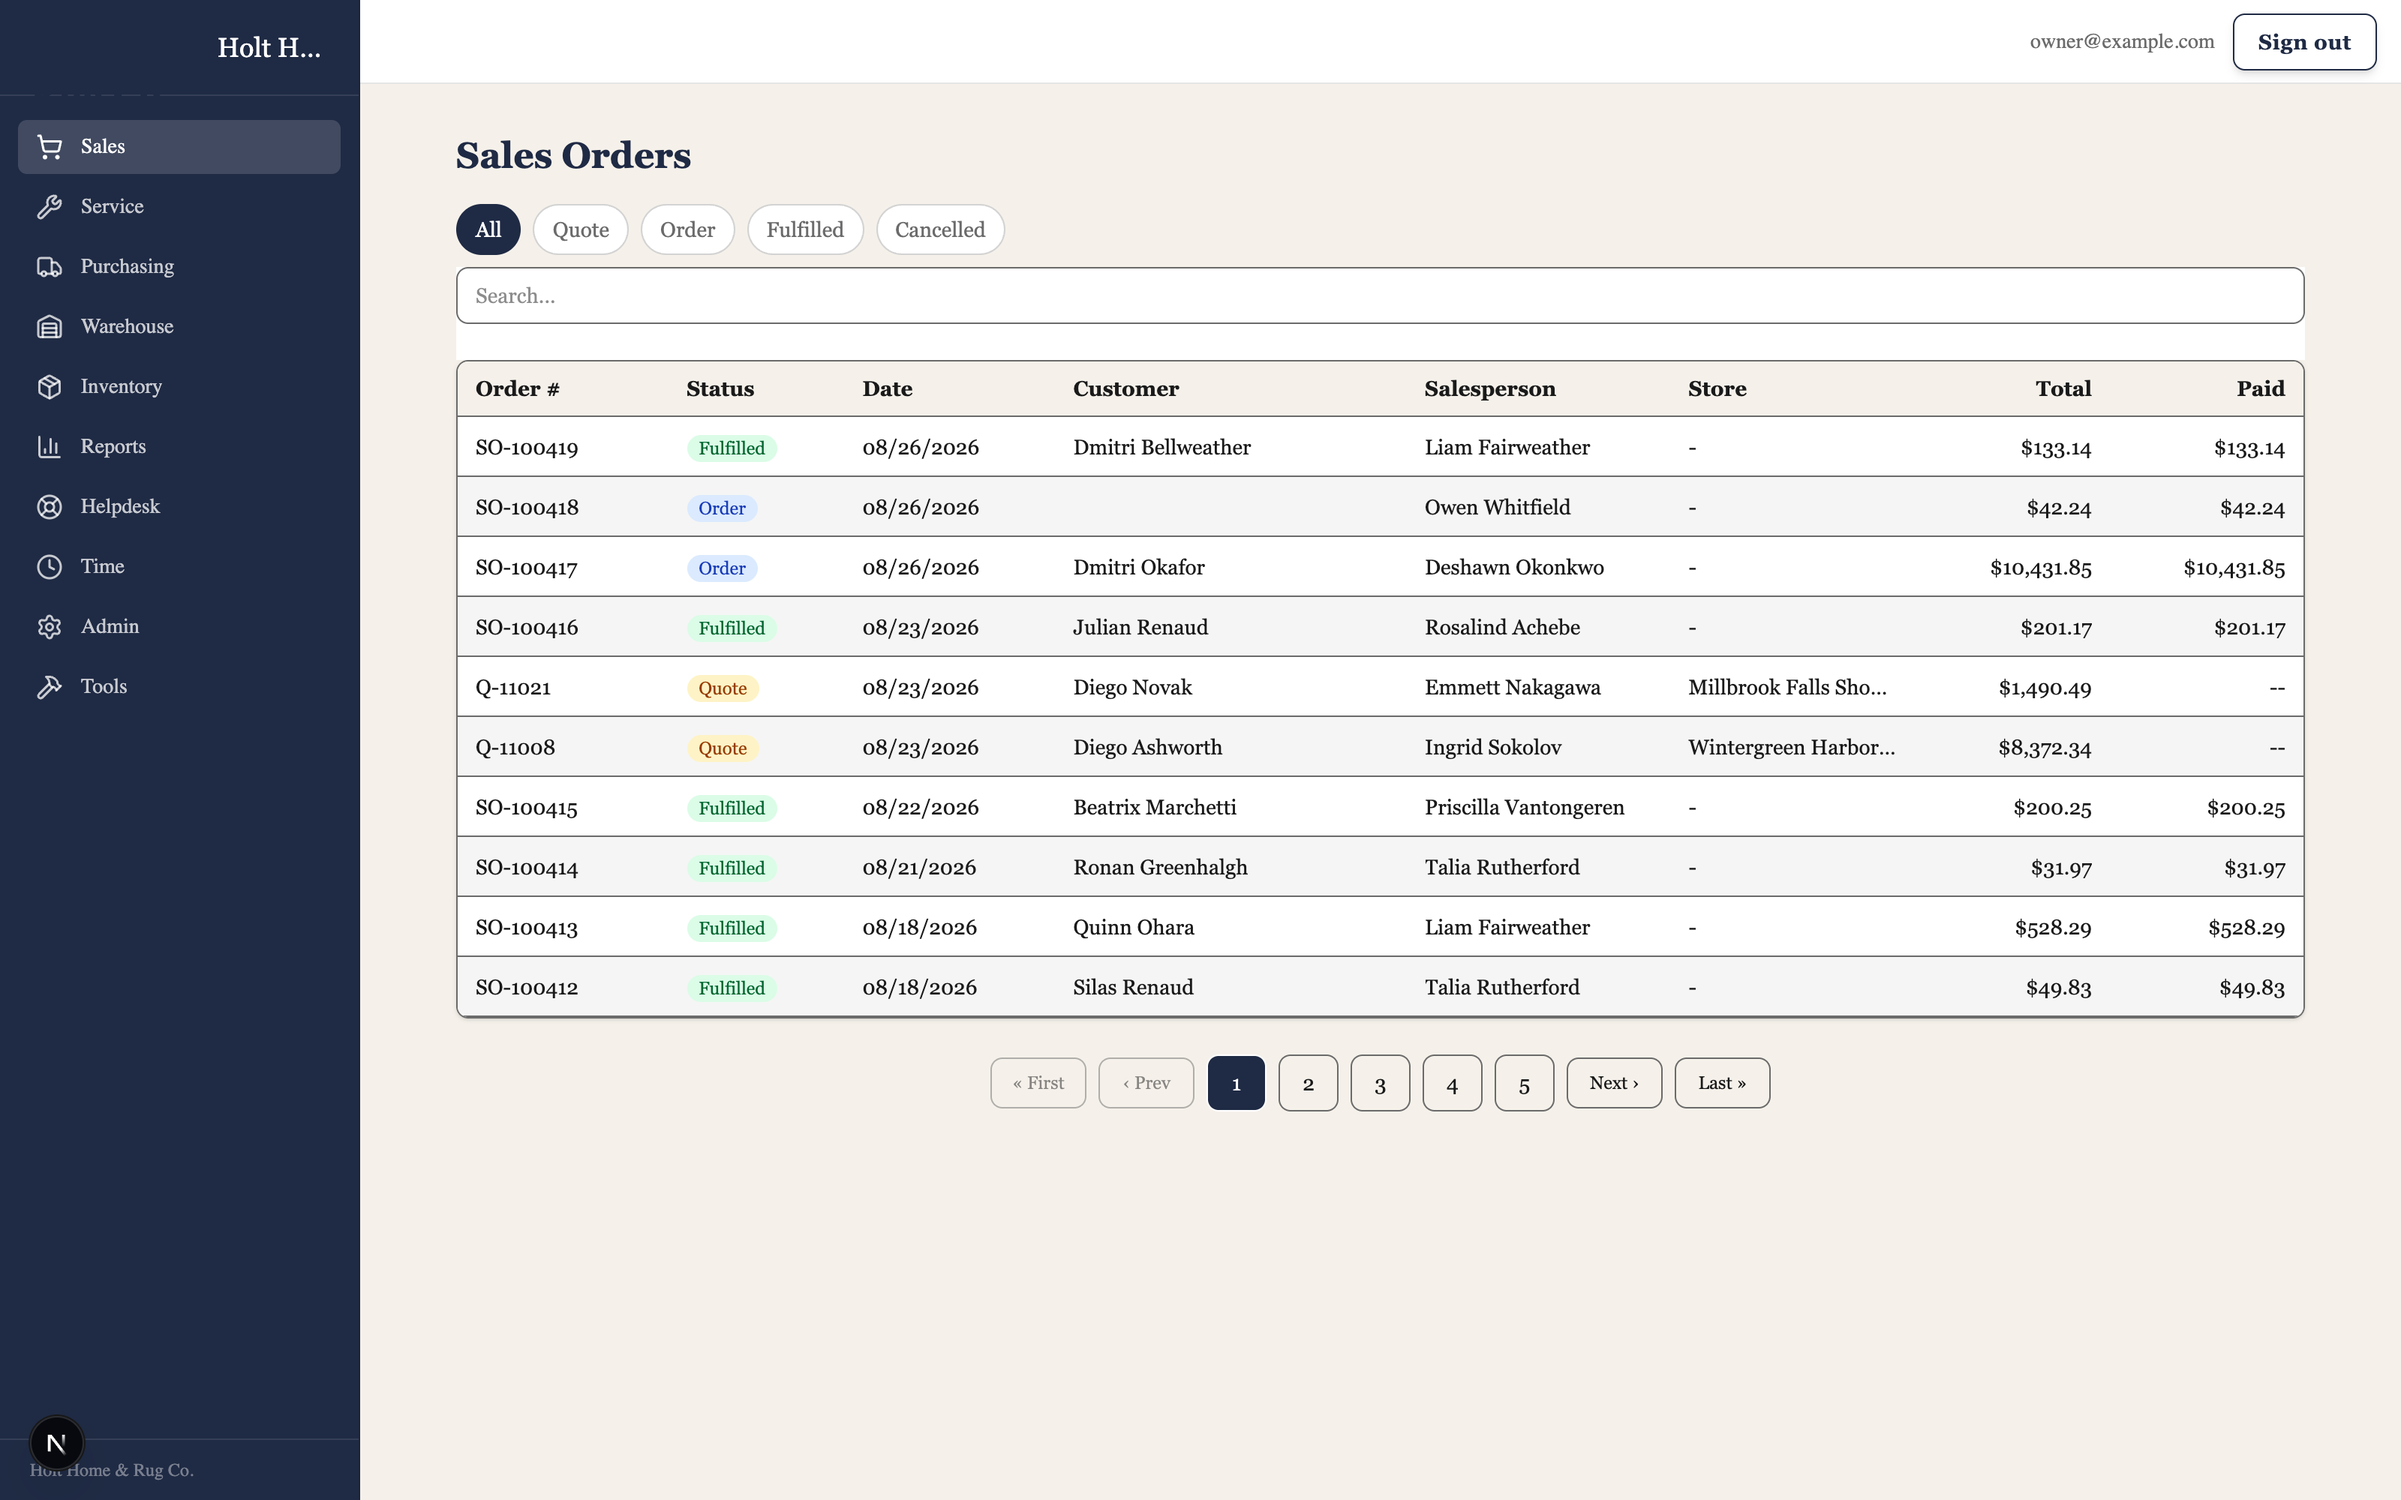
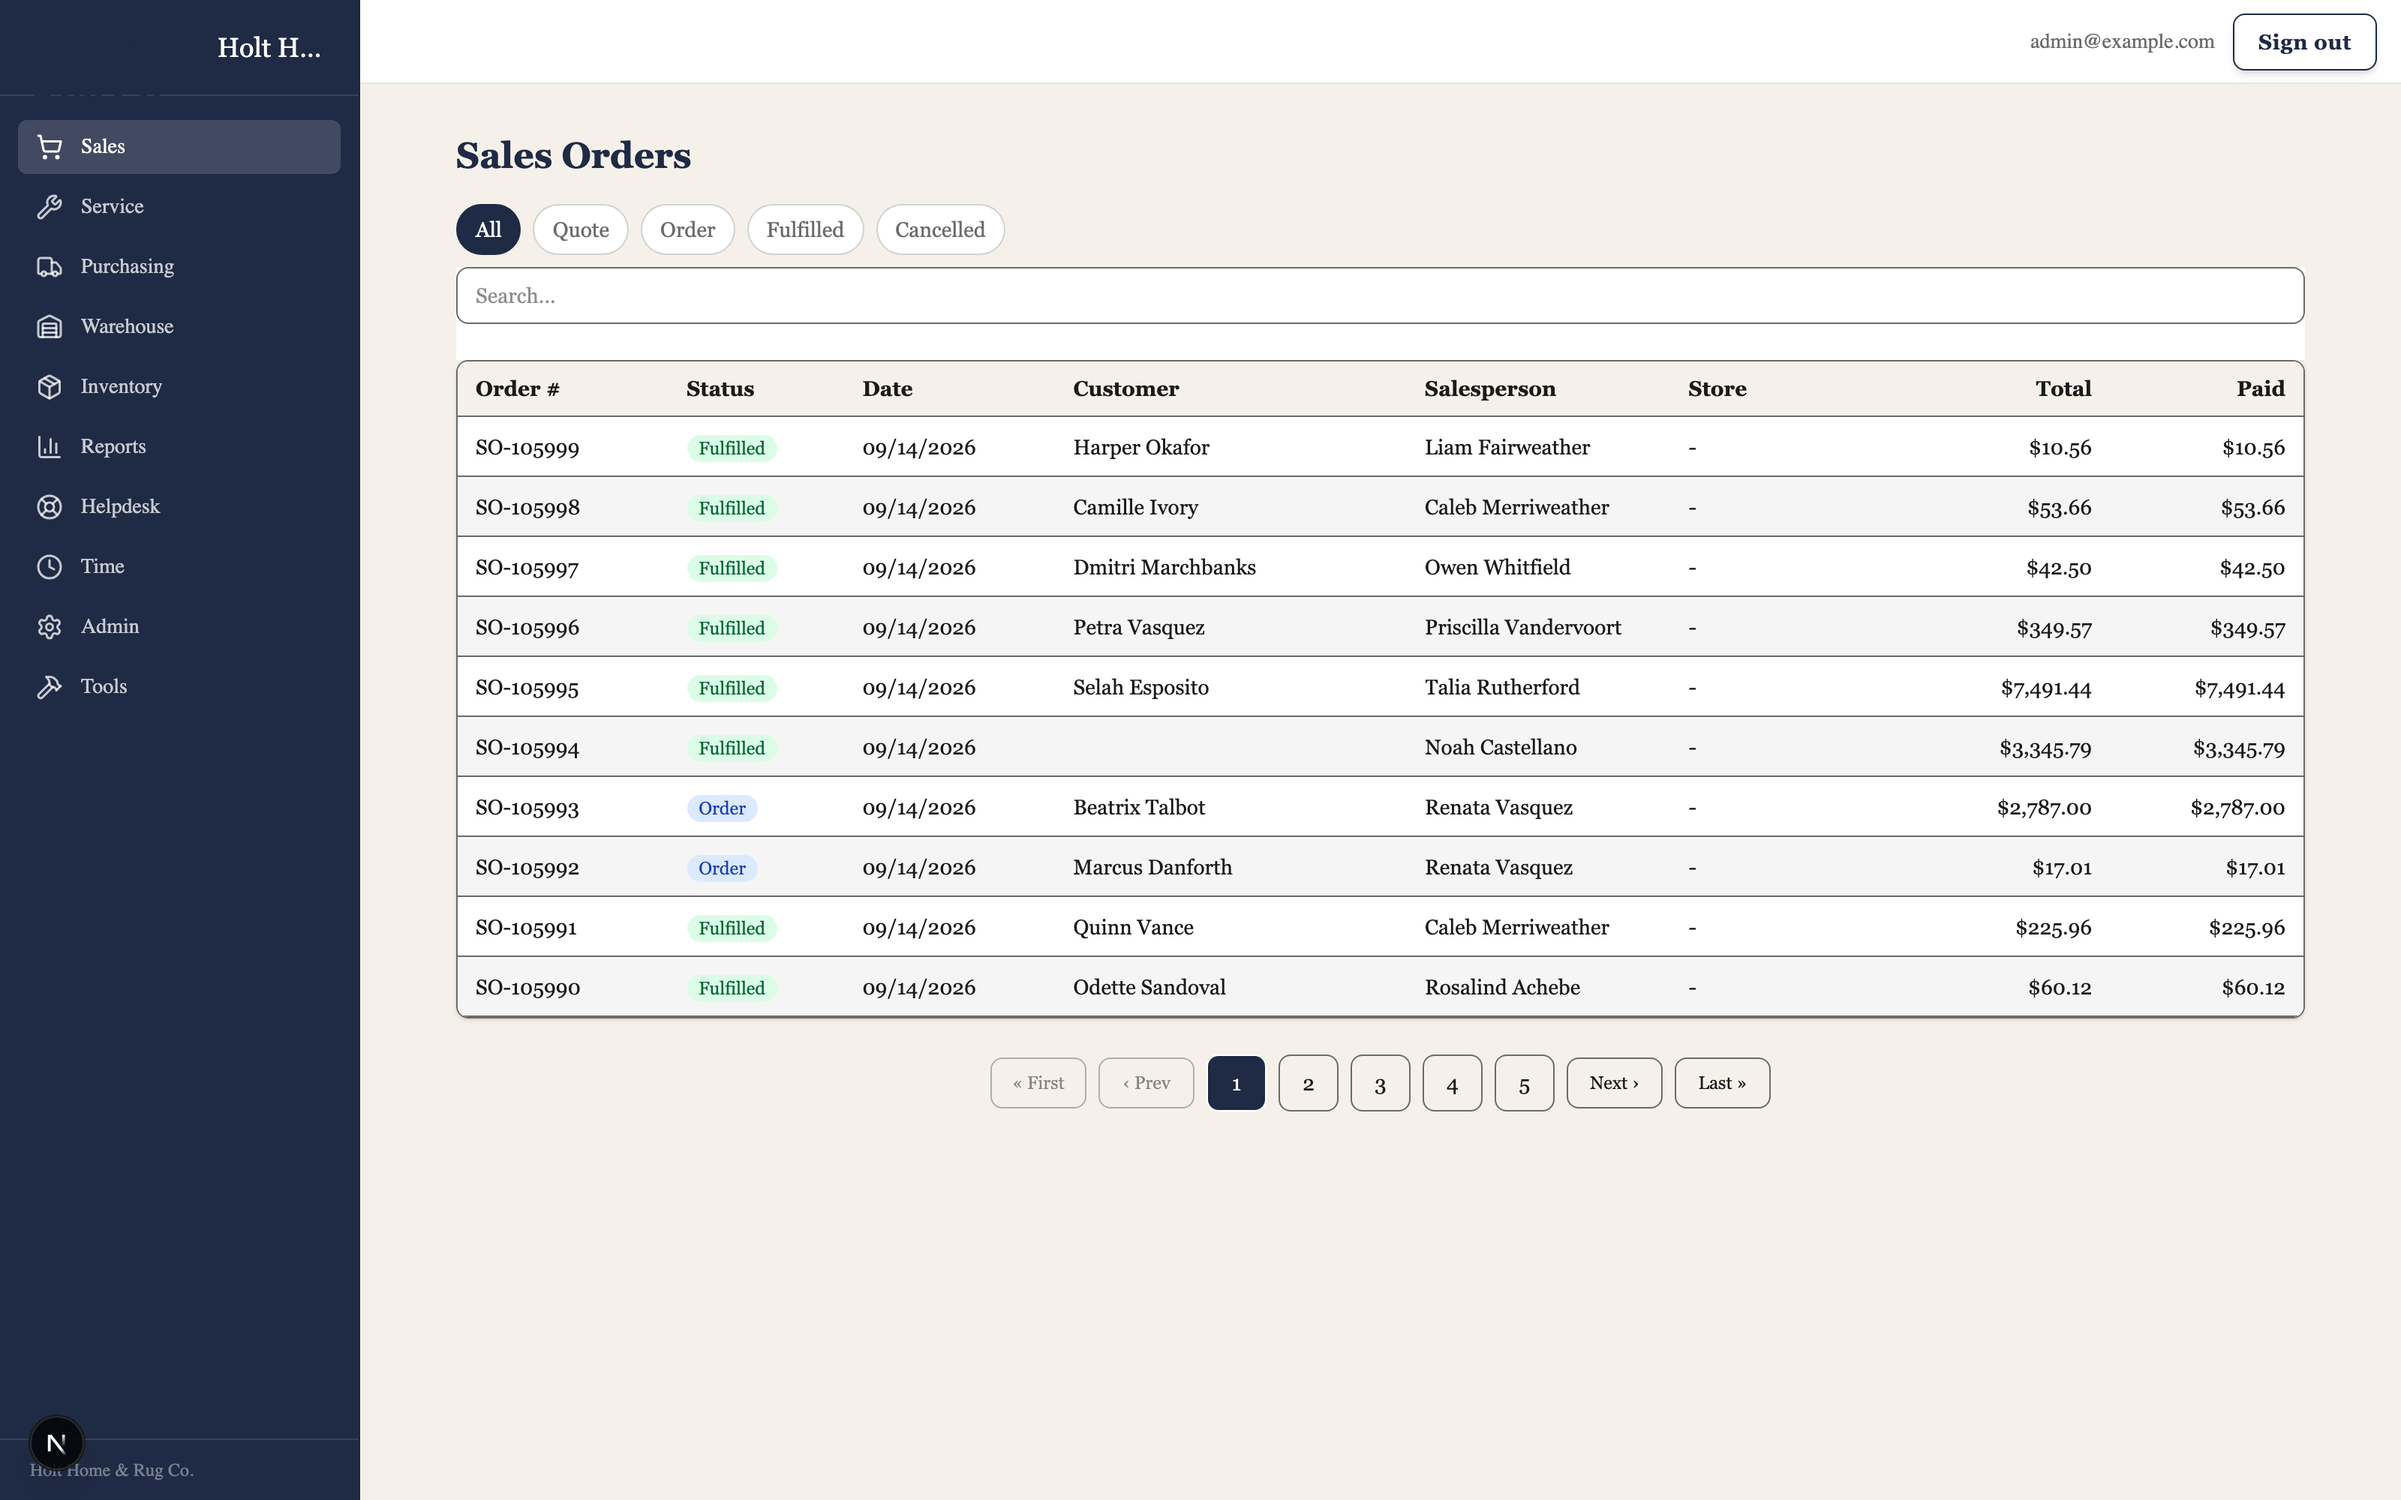
docs: the sales-orders screenshot showed a real surname; recaptured from the current seed (#163)
docs/images/sales-orders.png (#153) rendered a salesperson whose surname is
on the client-data tripwire's forbidden list. The scrub (#144) had already
renamed that seed row; the screenshot was captured from a database seeded
BEFORE the scrub and never re-seeded. The tripwire reads bytes, so a name
rendered into a PNG is a blind spot it cannot see -- it passed, and was
right to, and the image was wrong anyway.

All three screenshots are recaptured from holt_demo re-seeded at HEAD, at
the same 1600x1000 @2x. The capture script also dumps each page's rendered
text, and the tripwire's ten decoded patterns were run against that text:
zero hits. The one row that changed reads "Priscilla Vandervoort" now.

README's seed counts were wrong too: `npm run setup` at default scale
produces 6,000 orders / 1,400 customers / 500 products, not 454/180/160
(those are near the CI scale). And the caption promised a store on every
row; the store column is blank on counter sales, so it now says what the
image shows.

The old PNG remains in git history, as does everything #144 scrubbed. That
is a separate decision (rewrite or disclose) and is raised with the owner.

diff --git a/README.md b/README.md
@@ -29,7 +29,7 @@ wired to its own systems without editing code.
 ## What it looks like
 
 The screenshots below are a live instance running the demo seed (`npm run setup`)
-— 454 orders, 180 customers, 160 products, two showrooms. No mockups.
+— 6,000 orders, 1,400 customers, 500 products, two showrooms. No mockups.
 
 ### Storefront
 
@@ -39,8 +39,8 @@ A themeable public site with a built-in block CMS, edited in-app with no rebuild
 
 ### Back office
 
-Orders across both showrooms, filterable by status, with the salesperson and
-store on every row.
+Orders across both showrooms, filterable by status, with the salesperson on
+every row and the store wherever the order was placed at one.
 
 ![Sales orders](docs/images/sales-orders.png)
 
